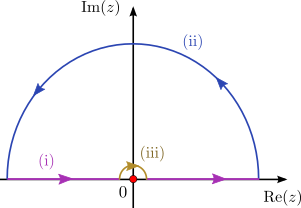
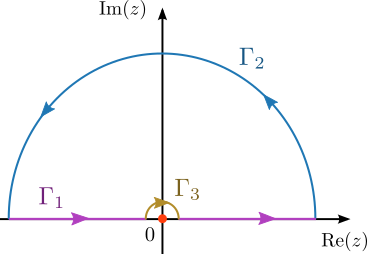
MH2801 Chapter 8: add two more problem solutions.

diff --git a/latex/MH2801/08_contour_integration.tex b/latex/MH2801/08_contour_integration.tex
@@ -746,25 +746,34 @@ surrounding the pole. This is called taking the \textbf{principal
 values'' for multi-valued complex operations discussed in Chapter 7,
 there is no connection between the two concepts.)
 
-Now we can evaluate $I'$ via the loop contour shown in the figure
-below. The loop follows the principal-value contour along the real
-axis, skips over the pole at $z = 0$ and arcs back along the upper
-half-plane. Because it encloses no poles, the loop integral vanishes
-by Cauchy's integral theorem.  The loop can be decomposed into several
-pieces: (i) the segments along the real axis, which correspond to the
-principal-value contour, (ii) the large counter-clockwise
-semi-circular arc, and (iii) the infinitesimal clockwise semi-circular
-arc that skips around $z = 0$.
+Now consider the loop contour shown in the figure below. The loop
+follows the principal-value contour along the real axis, skips over
+the pole at $z = 0$ and arcs back along the upper half-plane.  Since
+it encloses no poles, the loop integral vanishes by Cauchy's integral
+theorem.  However, the loop can also be decomposed into several
+sub-contours:
 
 \begin{figure}[ht]
   \centering\includegraphics[width=0.47\textwidth]{principal_value_integral}
 \end{figure}
 
-The large arc (ii) vanishes by Jordan's lemma. Thus, we only need to find
-piece (iii), the infinitesimal semi-circular arc skipping over the
-pole. This can be done by parameterization:
+\begin{enumerate}
+\item
+  $\Gamma_1$, consisting of the segments along the real axis.
+
+\item
+  $\Gamma_2$, the large counter-clockwise semi-circular arc.
+
+\item
+  $\Gamma_3$, the infinitesimal clockwise semi-circular arc that skips around $z = 0$.
+\end{enumerate}
+
+The integral over $\Gamma_1$ is the principal-value integral we are
+interested in.  The integral over $\Gamma_2$ vanishes by Jordan's
+lemma. The integral over $\Gamma_3$ can be calculated by
+parameterization:
 \begin{align}
-  \int_{(\mathrm{small}\,\mathrm{arc})} \frac{e^{iz}}{z}
+  \int_{\Gamma_3} \frac{e^{iz}}{z}
   &= \lim_{\epsilon \rightarrow 0} \int_{\pi}^{0} \frac{e^{i\epsilon \exp(i\theta)}}{\epsilon e^{i\theta}} \left(i\epsilon e^{i\theta}\right) d\theta \\
   &= \lim_{\epsilon \rightarrow 0} i \int_{\pi}^0 d\theta \\
   &= - i\pi.
@@ -774,7 +783,14 @@ $2\pi i$ times the residue (which is 1 in this case), a clockwise
 semi-circle is associated with a factor of $- i \pi$. Finally, putting
 everything together,
 \begin{equation}
-0 = I' - i \pi + 0 \quad \Rightarrow \;\; I' = i \pi \quad\Rightarrow \;\; I = \mathrm{Im}(I') = \pi.
+  \underbrace{\int_{\Gamma_1 + \Gamma_2 + \Gamma_3} f(z) dz}_{ =~0~(\text{Cauchy's integral theorem})}
+  = \underbrace{\int_{\Gamma_1} f(z) dz}_{=~I'}
+  + \underbrace{\int_{\Gamma_2} f(z) dz}_{=~0~(\text{Jordan's lemma})}
+  + \underbrace{\int_{\Gamma_3} f(z) dz.}_{=~-i \pi}
+\end{equation}
+Hence,
+\begin{equation}
+  I = \mathrm{Im}(I') = \mathrm{Im}(i\pi) = \pi.
 \end{equation}
 This agrees with the result obtained by the method of differentiating
 under the integral sign from Section 2.6.
